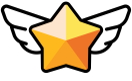
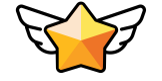
fix: Fix Responsiveness of badges section
- Update animation of badges to fade from slide
- Make images responsive
- Update badges assets width

Changed region(s): [[0.0, 0.0247, 1.0, 0.9136], [0.3939, 0.6667, 0.4545, 0.6914]]

diff --git a/lib/components/profile/Badges.tsx b/lib/components/profile/Badges.tsx
@@ -9,7 +9,6 @@ import {
 import { ThemedText } from "@/lib/components/shared/text/ThemedText";
 import { ThemedView } from "../shared/View/ThemedView";
 import { badgeDetails as badgeData, BadgeDetails } from "../util/badgeInfo";
-import { Skeleton } from "moti/skeleton";
 import { UserBadgeDetails } from "@/lib/types/user";
 import { MotiView, AnimatePresence } from "moti";
 import IconArrowRightEnclosed from "../icons/icon-arrow-right-enclosed";
@@ -25,7 +24,7 @@ const badgeImages: Record<string, any> = {
   "Council Member Locked": require("@/assets/images/profile/badges/council_locked.png"),
   "Active Voter": require("@/assets/images/profile/badges/active_voter.png"),
   "Active Voter Locked": require("@/assets/images/profile/badges/active_voter_locked.png"),
-  "Whale": require("@/assets/images/profile/badges/whale.png"),
+  "Whale": require("@/assets/images/profile/badges/whale-badge.png"),
   "Whale Locked": require("@/assets/images/profile/badges/whale_locked.png"),
 };
 
@@ -66,107 +65,95 @@ function Badges({ badges }: BadgesProps): JSX.Element {
   const backgroundColor = useThemeColor({}, "background");
   const strokeColor = useThemeColor({}, "stroke");
 
-  // Calculate responsive size based on device width (15% of width)
-  const { width } = Dimensions.get("window");
-  const responsiveSize = Math.round(width * 0.12);
-
   return (
-    <ThemedView type="container" style={[
-      styles.container,
-      { borderColor: strokeColor },
-      styles.border,
-      
-    ]}>
+    <ThemedView
+      type="container"
+      style={[
+        styles.container,
+        { borderColor: strokeColor },
+        styles.border,
+      ]}
+    >
       <View>
-        <ThemedText type="bodyMedium1" style={styles.title}>
+        <ThemedText type="titleMedium1">
           Badges
         </ThemedText>
         {earnedCount > 0 && (
-          <ThemedText type="bodySmall" style={styles.subtitle}>
+          <ThemedText type="bodySmall3">
             {earnedCount} Badges Earned
           </ThemedText>
         )}
       </View>
-
-      <View
-        style={{
-          flexDirection: "row",
-          alignItems: "center",
-          justifyContent: "space-between",
-          flex: 1,
-        }}
-      >
-        <View
-          style={[
-            styles.carouselRow,
-            { flex: 1, overflow: "hidden", gap: width * 0.05, width: 200 },
-          ]}
+      <AnimatePresence exitBeforeEnter>
+        <MotiView
+          style={styles.carouselRow}
+          from={{ opacity: 0 }}
+          animate={{ opacity: 1 }}
+          exit={{ opacity: 0 }}
+          transition={{ type: 'timing', duration: 300 }}
+          key={currentIndex}
         >
-          <AnimatePresence>
-            {visibleBadges.map((badge) => (
-              <MotiView
-                key={`${badge.name}-${currentIndex}`}
-                from={{ translateX: 30, opacity: 0, scale: 0.8 }}
-                animate={{ translateX: 0, opacity: 1, scale: 1 }}
-                exit={{ translateX: -30, opacity: 0, scale: 0.8 }}
-                transition={{ type: "timing", duration: 300 }}
-                style={[
-                  styles.badgeIconContainer,
-                  {
-                    width: responsiveSize,
-                    height: responsiveSize,
-                    backgroundColor,
-                  },
-                ]}
-              >
-                <Image
-                  source={
-                    badge.isUnlocked
-                      ? badgeImages[badge.name]
-                      : badgeImages[`${badge.name} Locked`]
-                  }
-                  style={{ width: responsiveSize - 2, height: responsiveSize - 2 }}
-                  resizeMode="contain"
-                />
-              </MotiView>
-            ))}
-          </AnimatePresence>
-        </View>
-        {fullBadgeList.length > 3 && (
-          <TouchableOpacity onPress={handleSlide} style={styles.chevronContainer}>
-            <IconArrowRightEnclosed color="#FFF" iconHeight={40} iconWidth={40} />
-          </TouchableOpacity>
-        )}
-      </View>
+          {visibleBadges.map((badge) => (
+            <View
+              key={`${badge.name}`}
+              style={[
+                styles.badgeContainer,
+                { backgroundColor }
+              ]}
+            >
+              <Image
+                source={
+                  badge.isUnlocked
+                    ? badgeImages[badge.name]
+                    : badgeImages[`${badge.name} Locked`]
+                }
+                style={styles.badgeImage}
+                key={badge.name}
+                resizeMode="contain"
+              />
+            </View>
+          ))}
+        </MotiView>
+      </AnimatePresence>
+      <TouchableOpacity
+        onPress={handleSlide}
+      >
+        <IconArrowRightEnclosed color="#FFF" iconHeight={40} iconWidth={40} />
+      </TouchableOpacity>
     </ThemedView>
   );
 }
 
 const styles = StyleSheet.create({
   container: {
-    padding: 20,
+    paddingHorizontal: 10,
+    paddingVertical: 16,
     flexDirection: "row",
     alignItems: "center",
-    gap: 20,
-  },
-  title: {
-    fontSize: 18,
-  },
-  subtitle: {
-    fontSize: 10,
-    lineHeight: 15,
+    gap: 16
   },
   carouselRow: {
+    flex: 1,
     flexDirection: "row",
     alignItems: "center",
+    justifyContent: "space-between",
+
   },
-  badgeIconContainer: {
-    borderRadius: 25,
+  badgeContainer: {
+    borderRadius: 50,
+    padding: 2,
+    margin: 4,
+    aspectRatio: 1,
     justifyContent: "center",
     alignItems: "center",
+    flexShrink: 1
   },
-  chevronContainer: {
-    marginLeft: 10,
+  badgeImage: {
+    width: "100%",
+    height: "100%",
+    aspectRatio: 1,
+    maxWidth: 50,
+    maxHeight: 50,
   },
   border: {
     borderWidth: 1,
